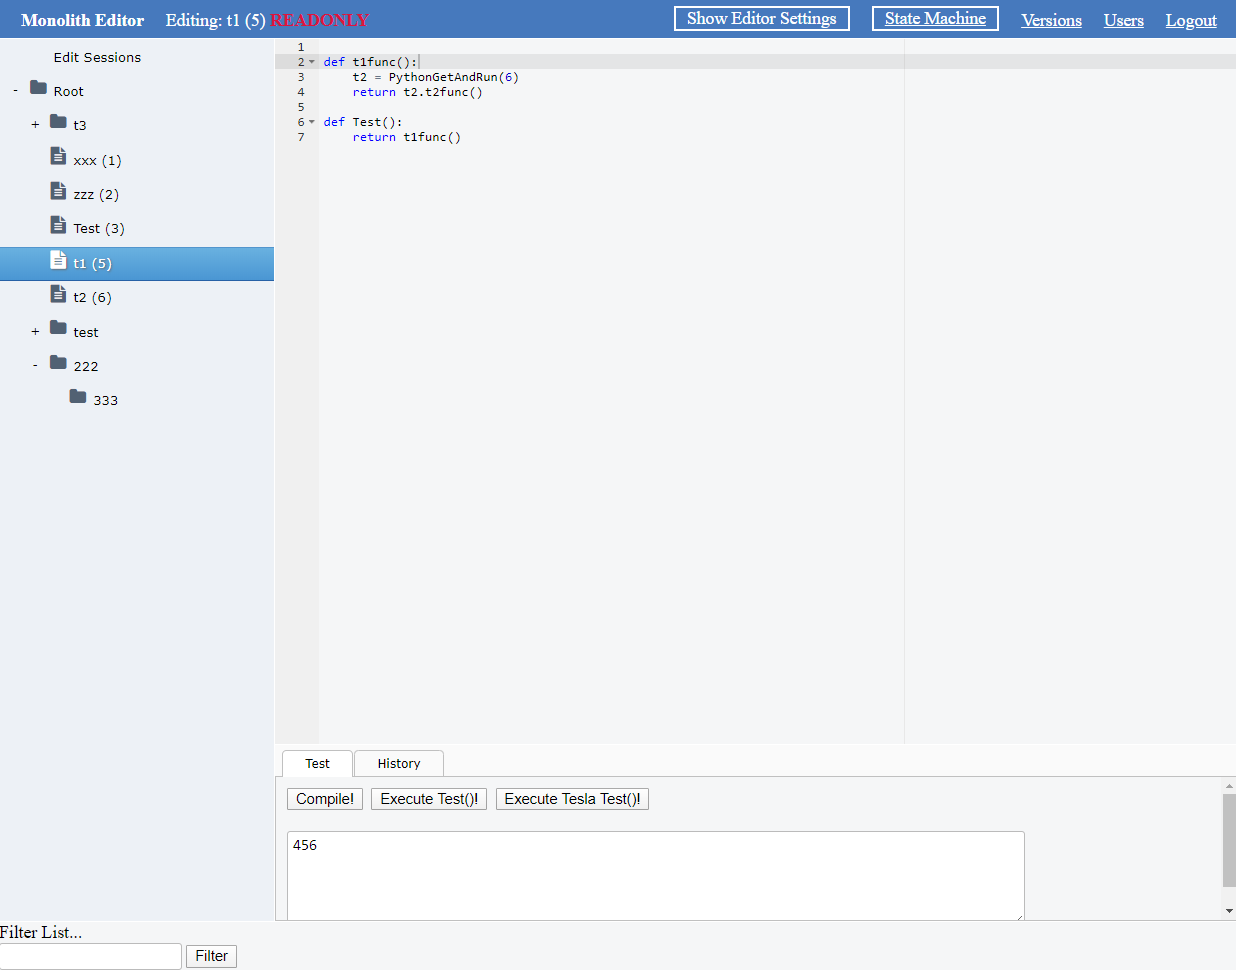
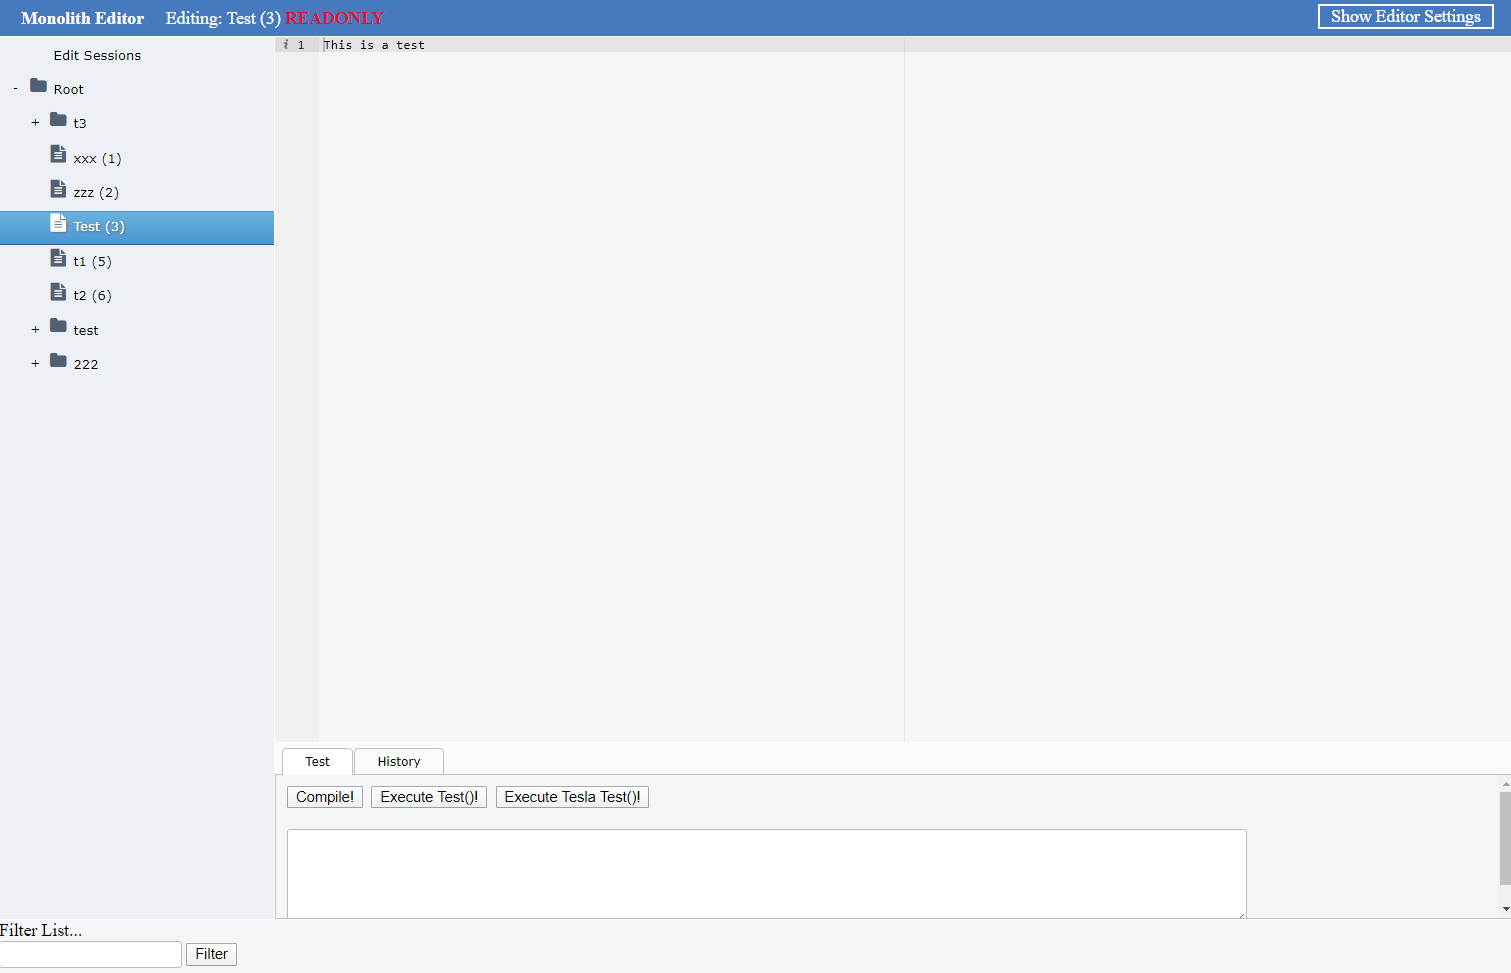
fix screenshot

diff --git a/WebEditor/Editor.html b/WebEditor/Editor.html
@@ -310,7 +310,7 @@ W2UI: http://w2ui.com/web/docs/w2sidebar.hide
                     resizable: true,
                     style: 'background: #4679bd; color: #fff; padding-left: 20px; padding-top: 10px',
                     content:
-                        '<b>Monolith Editor</b><span style="padding-left: 20px;" id="titleinfo"></span><a style="float:right;margin-right:20px;color:white" href="/users/logout">Logout</a><a style="float:right;margin-right:20px;color:white" href="/users/" target="useredit">Users</a><a style="float:right;margin-right:20px;color:white" target="version" href="/version/">Versions</a><a class="box" style="float:right;margin-right:20px;color:white;margin-top:-4px" target="version" href="http://mcdn.trinity.secretwardialer.com/statemachine/StateMachineEditor.html">State Machine</a><span id="editorSettings" class="box" style="float:right; margin-right: 20px; margin-top: -4px">Show Editor Settings</span>'
+                        '<b>Monolith Editor</b><span style="padding-left: 20px;" id="titleinfo"></span><span id="editorSettings" class="box" style="float:right; margin-right: 20px; margin-top: -4px">Show Editor Settings</span>'
                 }, {
                     type: 'left',
                     size: 250,
